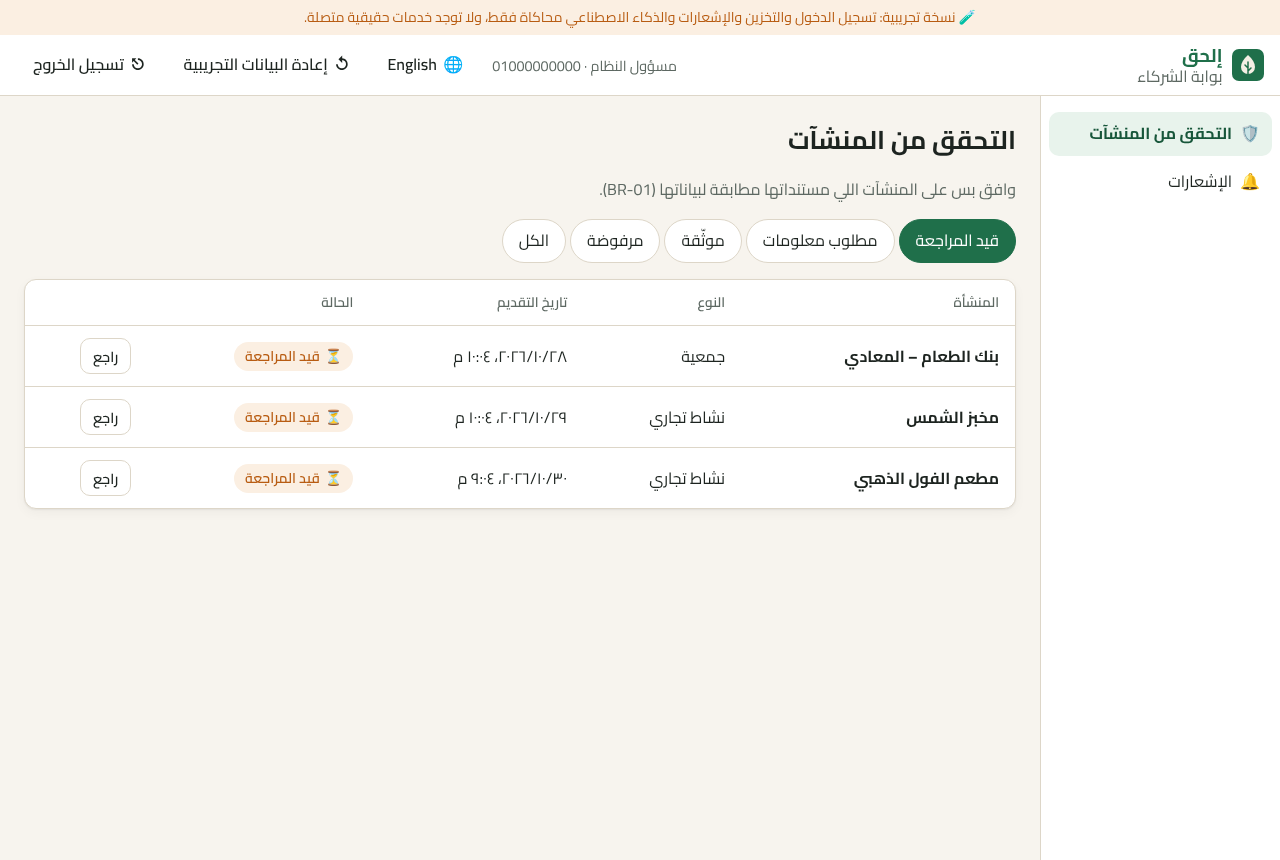
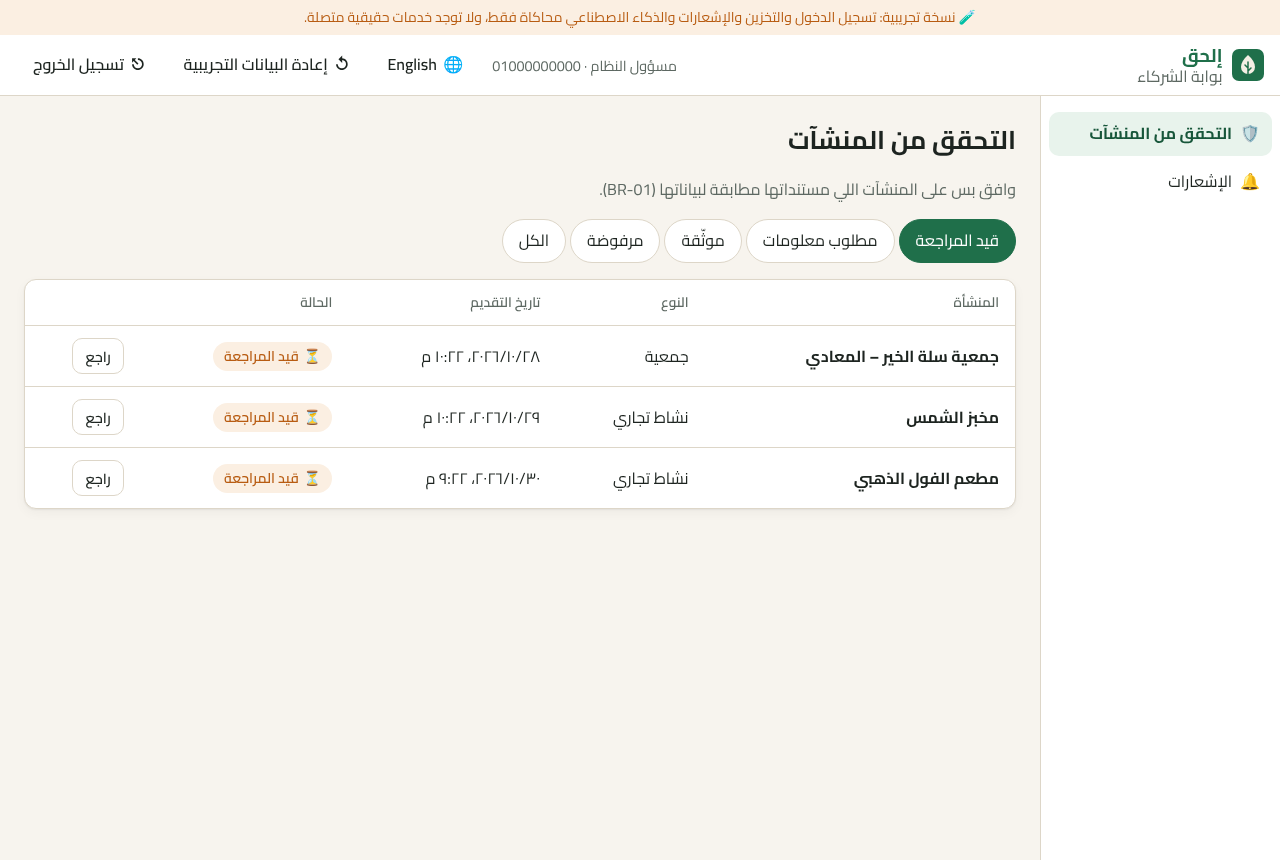
Prepare the Sprint 1 demo for hosting
- Load the Flutter web build without a service worker (custom
  web/flutter_bootstrap.js); Flutter's service worker is deprecated and
  unavailable in embedded hosts.
- Render receipts in the bundled Cairo face so Flutter web never fetches
  a fallback font.
- Use a fictional name for the seed NGO.
- Refresh the demo screenshots from the updated builds.

Claude-Session: https://claude.ai/code/session_01EhB1xbCEVsrAHhRXciysxz

diff --git a/apps/mobile/lib/features/receipt/receipt_scan_screen.dart b/apps/mobile/lib/features/receipt/receipt_scan_screen.dart
@@ -108,7 +108,8 @@ class PaperReceipt extends StatelessWidget {
 
   @override
   Widget build(BuildContext context) {
-    const base = TextStyle(fontFamily: 'monospace', fontSize: 13, height: 1.5, color: Color(0xFF333333));
+    // Inherits the bundled Cairo face: a 'monospace' family would make Flutter web fetch a fallback font.
+    const base = TextStyle(fontSize: 13, height: 1.5, color: Color(0xFF333333));
     return Container(
       padding: const EdgeInsets.all(16),
       decoration: BoxDecoration(

diff --git a/apps/portal/src/api/seed.ts b/apps/portal/src/api/seed.ts
@@ -34,9 +34,9 @@ export function seedDb(): DemoDb {
         createdAt: daysAgo(1),
       },
       {
-        id: 'org-foodbank',
+        id: 'org-ngo',
         kind: 'ngo',
-        name: 'بنك الطعام – المعادي',
+        name: 'جمعية سلة الخير – المعادي',
         registrationNo: 'MOSS-2291',
         ownerPhone: DEMO_NGO_PHONE,
         documents: [{ kind: 'ngoRegistration', fileName: 'moss-registration.pdf' }],

diff --git a/apps/mobile/web/flutter_bootstrap.js b/apps/mobile/web/flutter_bootstrap.js
@@ -1,0 +1,6 @@
+{{flutter_js}}
+{{flutter_build_config}}
+
+// Load without a service worker: Flutter's service worker is deprecated, and the demo is
+// served from hosts and iframes where service workers are unavailable.
+_flutter.loader.load();

diff --git a/docs/sprints/sprint-1-demo.md b/docs/sprints/sprint-1-demo.md
@@ -29,7 +29,7 @@ pnpm dev                # http://localhost:5173
 | One-time code (any number) | `123456` (5 wrong codes lock the number for 1 h) |
 | Portal admin | `01000000000`, role "Administrator" |
 | Portal business owner | `01011112222`, role "Business owner" (owns the pending *مخبز الشمس*) |
-| Portal NGO coordinator | `01233334444`, role "NGO coordinator" (pending *بنك الطعام – المعادي*) |
+| Portal NGO coordinator | `01233334444`, role "NGO coordinator" (pending *جمعية سلة الخير – المعادي*) |
 | App | Any Egyptian mobile (`010/011/012/015` + 8 digits) |
 
 **Reset:** in the portal, **Reset demo data** in the top bar. In the app, Settings → **Reset demo data**.
